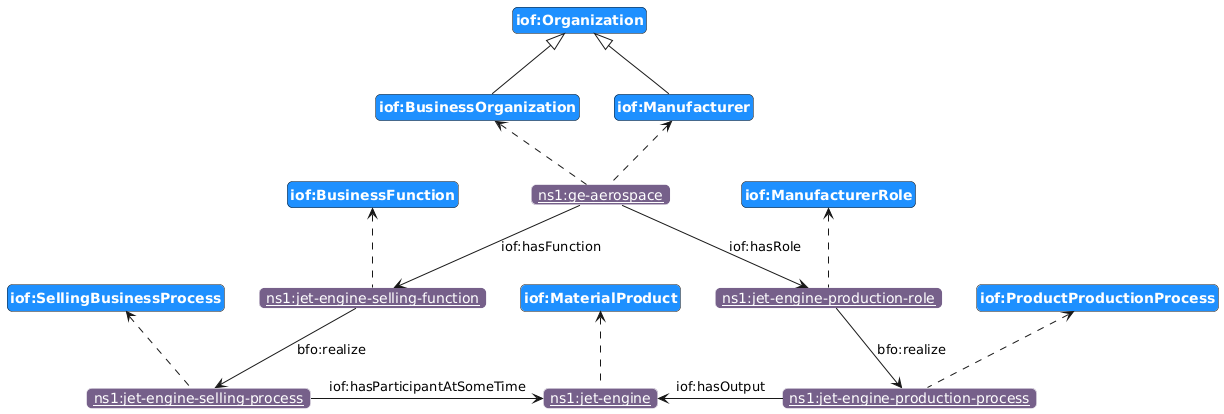
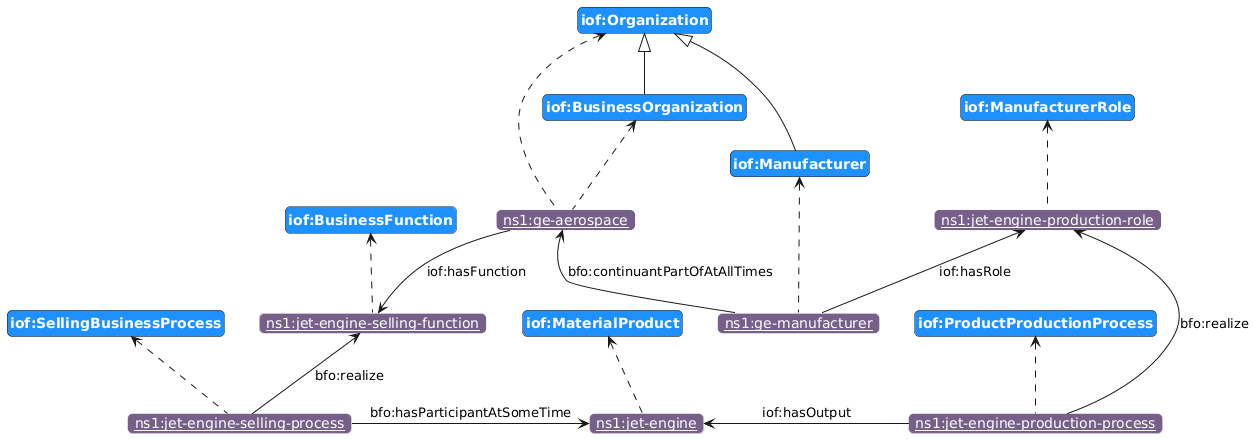
Roughed in new sections

diff --git a/scenarios/processes/processes.tex b/scenarios/processes/processes.tex
@@ -1,27 +1,61 @@
-\chapter{Task Division Example}
-%\label{chapter:title}
+%%\chapter{Processes}
+\label{chapter-scenario-processes}
 
-\emph{If a task division is required, a simple template can be found below for convenience. Feel free to use, adapt or completely remove.}
+\section*{Simple Process Sequence}
 
-\begin{table}[htb]
-    \setlength\extrarowheight{4pt}
-    \centering
-    \caption{Distribution of the workload}
-    \label{tab:taskdivision}
-    \begin{tabularx}{\textwidth}{lXX}
-        \toprule
-        & Task & Student Name(s) \\
-        \midrule
-        & Summary & \\
-        Chapter 1 & Introduction &  \\
-        Chapter 2 &  & \\
-        Chapter 3 &  & \\
-        Chapter * &  & \\
-        Chapter * & Conclusion &  \\
-        \midrule
-        & Editors & \\
-        & CAD and Figures & \\
-        & Document Design and Layout & \\
-        \bottomrule
-    \end{tabularx}
-\end{table}
+\textbf{Created by:} Jim Logan \\
+\textbf{Modified by:} Jim Logan \\
+
+\subsection*{Scenario Objective}
+% Instruction box
+This scenario demonstrates how to represent a sequence of time stamped events within the context of the \textbf{BFO/IOF ontology}. A later scenario will demonstrate how to automatically classify an overall process based on one step following another.
+
+\textit{ 
+Describe the general purpose of representing the pattern (e.g., demonstrating how you can depict measurements with IOF core).}
+
+\subsection*{General Pattern Description}
+
+\textit{  
+Provide a figure containing the pattern independent of the use case (e.g., just measurements in general as opposed to measuring a particular thing such as pH or length). \\
+\noindent \textit{This diagram is generally a simple class-relation diagram. Please see examples of class-relation diagram here.}
+  }
+
+\textit{ 
+Describe the general pattern, including any background why such types and relations are used. Also mention any alternative or shortcuts. Please provide a background of the types and relations in the context of IOF (please prefer logical arguments to didactic arguments).
+}
+
+
+\subsection*{Use Case: <Use-Case title>}
+ \textit{ 
+Describe a concrete use case for the pattern. (Multiple use cases can be described for one pattern. If multiple, please use distinct use case titles and repeat all subsubsections for each use case.)
+  }
+
+\subsubsection*{Use-Case Pattern Description}
+ \textit{ 
+Provide a diagram which matches the use-case pattern description. \\
+\noindent \textit{This diagram is generally an object diagram. Please see examples of object diagram here.}
+  }
+
+ \textit{ 
+Describe how the general pattern is applied to the use case. It is important to highlight within the description how the use-case-specific concepts align with the general pattern (e.g., SubClassOf Class for general pattern).
+  }
+
+\subsubsection*{Use-Case Example Data}
+ \textit{ 
+Provide a description of the data set used to demonstrate the use case pattern (e.g., format as JSON, CSV, XML, column/attribute/node name and their description, relation between datasets if multiple are used). Use not less than 3 and not more than 7 records/transactions.
+  }
+
+\subsubsection*{Data Mapping}
+ \textit{ 
+Describe how the data was mapped to RDF. Provide an INSERT DATA/ INSERT SPARQL for mapping. Use INSERT only when the use case example data needs further manipulation. \\
+For INSERT DATA SPARQL, use only 2/3 records/transactions with named class and individuals. \\
+For INSERT SPARQL, declare column names by `\{ \}' to the variable.  
+For INSERT query, 
+For both, do not use blank nodes.    
+  }
+
+\subsubsection*{Data Validation}
+ \textit{ 
+Data validation can be performed in two ways: accessing interesting facts using SPARQL or validating whether the entire data conforms to the ontology using SHACL. It is preferable to provide both. \\
+Provide the SPARQL query in the code block along with the result of the query. \\
+  }

diff --git a/scenarios/different-type-organizations/different-type-organizations.tex b/scenarios/different-type-organizations/different-type-organizations.tex
@@ -18,7 +18,7 @@ An Organization can simultaneously be:
     \item A Manufacturer that has a ManufacturerRole, which is realized through a ProductProductionProcess and  has the MaterialProduct as its output.
 \end{enumerate}
 
-\includegraphics[scale=0.42]{scenarios/different-type-organizations/image/different-type-organizations-schema}
+\includegraphics[scale=0.6]{scenarios/different-type-organizations/image/different-type-organizations-schema}
 
 \subsection*{Use Case: }
 
@@ -27,8 +27,7 @@ This use case demonstrates how a company like GE operates as both a manufacturer
 \subsubsection*{Use-Case Pattern Description}
 \includegraphics[scale=0.4]{scenarios/different-type-organizations/image/different-type-organizations}
 
-GE Aerospace (\texttt{iof:Organization}) operates as both a manufacturer and a business organization (\texttt{iof: BusinessOrganization}) with respect to jet engines(\texttt{iof:MaterialProduct}). As a manufacturer (\texttt{iof:Manufacturer}), GE Aerospace bears \texttt{iof:ManufacturerRole} which is \texttt{bfo:realize} through \texttt{iof:ProductProductionProcess}, producing jet engines as \texttt{iof:MaterialProduct}. The same organization is a business organization by having \texttt{iof:BusinessFunction} which is \texttt{bfo:realize} through \texttt{iof:SellingBusinessProcess}, where the same jet engines \texttt{are bfo:hasParticipantAtSomeTime} in the selling process.
-
+GE Aerospace (\texttt{ns1:ge-aerospace}) operates as both an organization (\texttt{iof:Organization}) and a business organization (\texttt{iof:BusinessOrganization}) with respect to jet engines (\texttt{ns1:jet-engine}). Through its manufacturing division (\texttt{ns1:ge-manufacturer}), which is \texttt{bfo:continuantPartOfAtAllTimes} of GE Aerospace, it bears a manufacturer role (\texttt{ns1:jet-engine-production-role}) which is \texttt{bfo:realize} through a production process (\texttt{ns1:jet-engine-production-process}), producing jet engines as \texttt{iof:hasOutput}. The organization also has a business function (\texttt{ns1:jet-engine-selling-function}) which is \texttt{bfo:realize} through a selling process (\texttt{ns1:jet-engine-selling-process}), where the same jet engines are sold (\texttt{bfo:hasParticipantAtSomeTime}) in the selling process.
 \subsubsection*{Use-Case Example Data}
 
 
@@ -39,9 +38,9 @@ GE Aerospace (\texttt{iof:Organization}) operates as both a manufacturer and a b
 \begin{tabular}{|l|l|}
 \hline
 Entity & Function/Role \\ \hline
-GE Aerospace & Manufactures and sells product \\
+GE Aerospace & Sells products and has Manufacturer \\
 Jet engine & Product \\
-Manufacturing & Manufactures product \\
+GE Manufacturer & Manufactures product \\
 Sales & Sells product \\
 \hline
 \end{tabular}%

diff --git a/mainmatter/process-event.tex b/mainmatter/process-event.tex
@@ -1,2 +1,7 @@
 \chapter{Process and Event}
+\include{scenarios/processes/processes}
+\section*{Process Design}
+Here discuss how to represent a SysML / UML activity diagram in an IOF Ontology.
+\section*{Process Design and Conformance}
+ Here discuss how to classify time stamped events automatically as making coffee.
 \include{scenarios/algorithm-execution/algorithm-execution}
